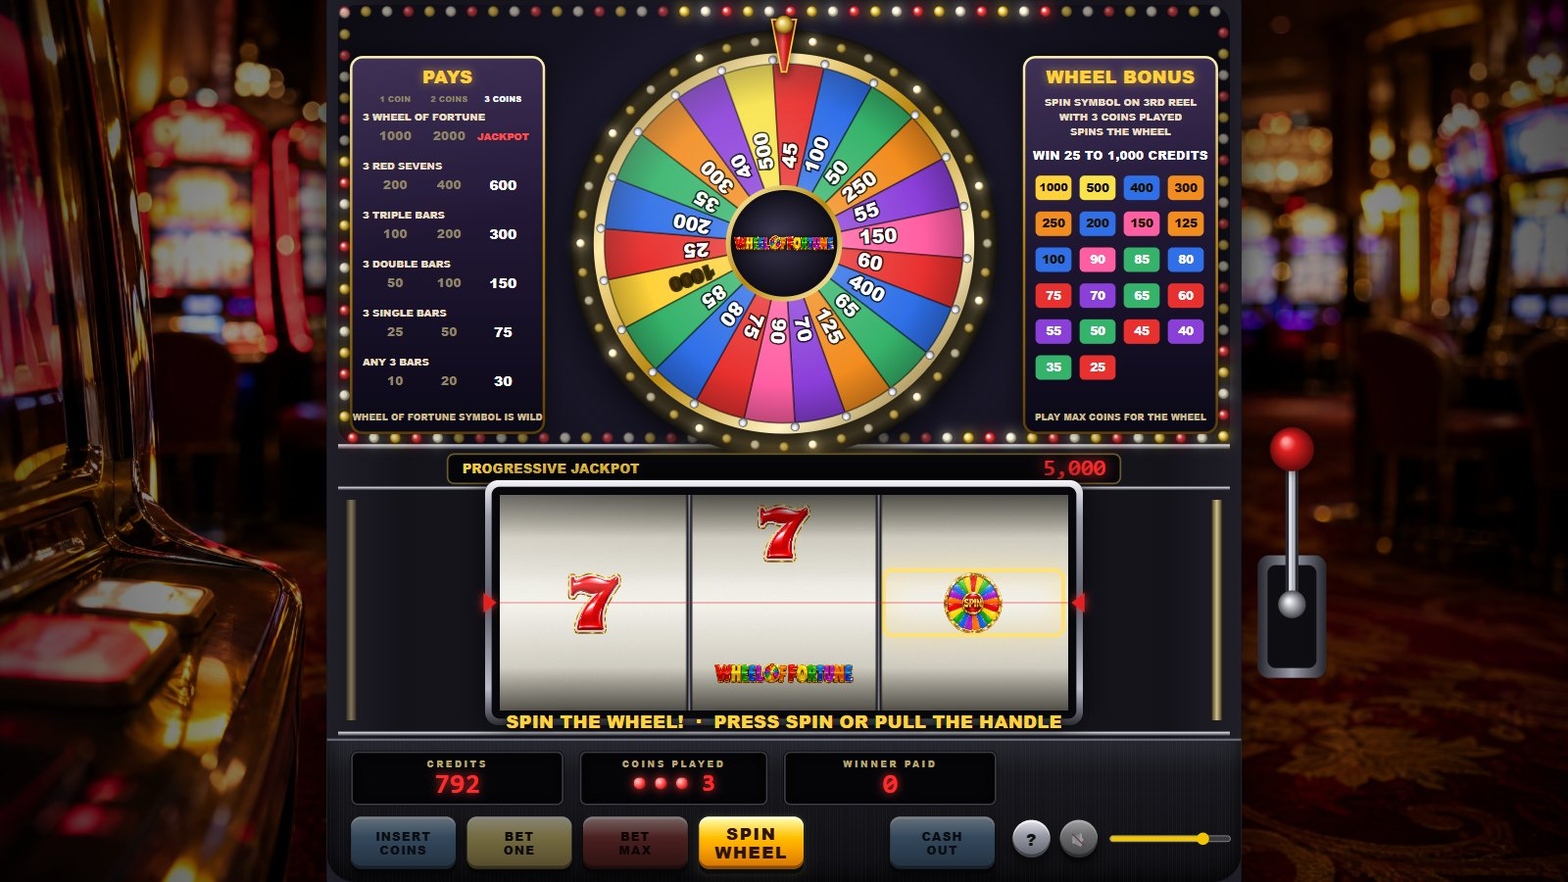
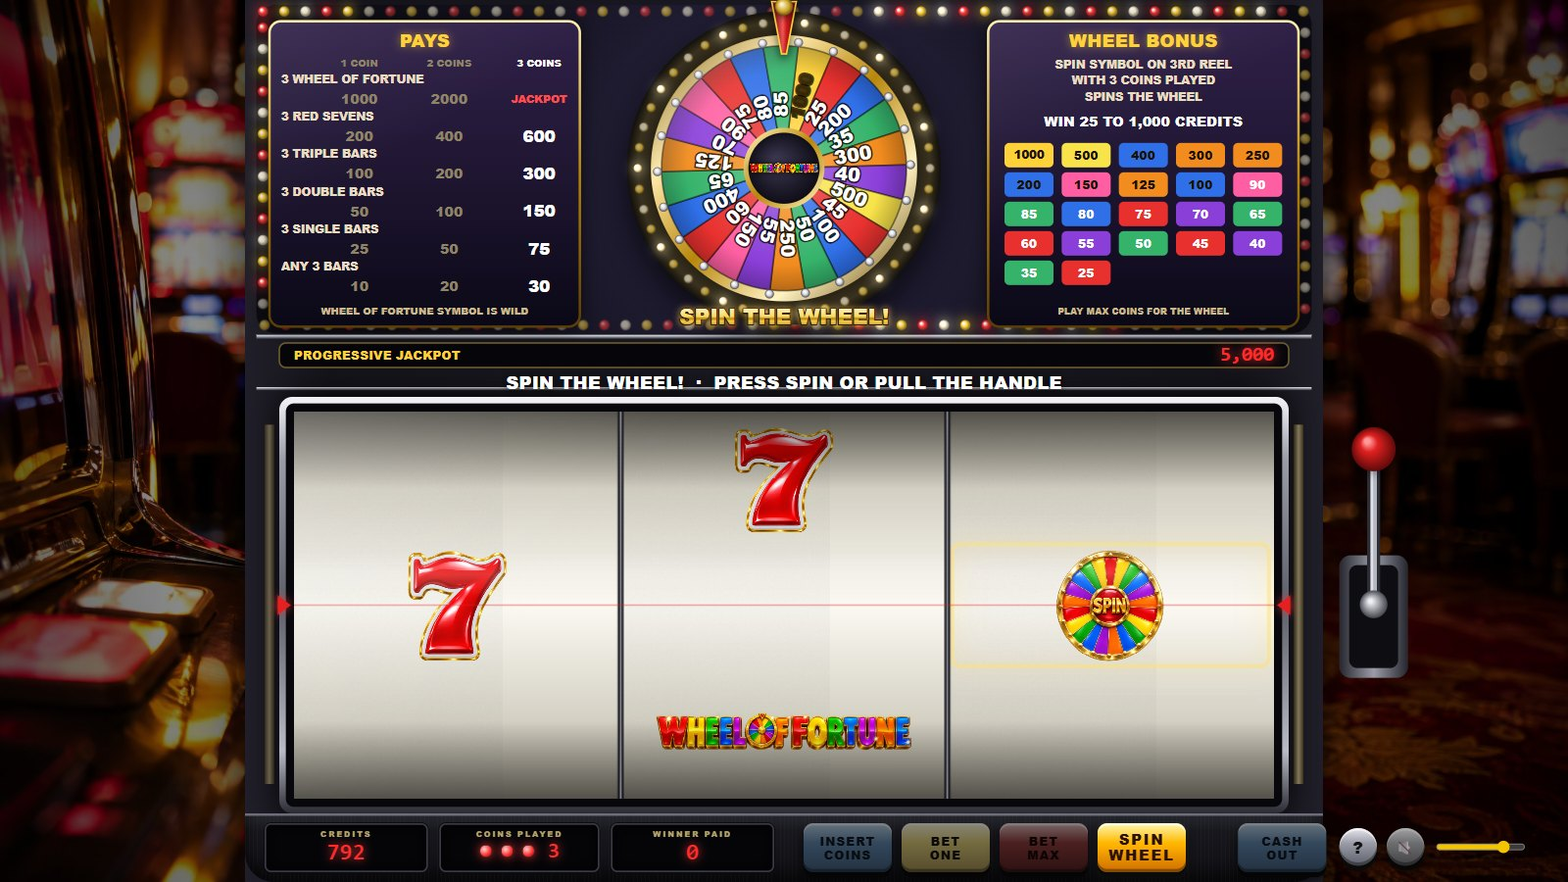
Big reels and an arcade maths profile
Reels grow to 400x158 cells, about three times the glass area, under a compact top box that holds the wheel and both panels; the deck is one row. The new default arcade profile spins the wheel about 1 in 58 (was 1 in 115) on a flatter wheel for a 97.9% three-coin return; ?classic=1 in the browser or WOF_PROFILE=classic for the tools restores the 92.5% original. tools/tune-arcade.js documents the scan; README and screenshots updated.

diff --git a/js/renderer.js b/js/renderer.js
@@ -8,9 +8,11 @@
   'use strict';
   const WOF = root.WOF, ZEUS = root.ZEUS, A = WOF.assets, FX = ZEUS.fx, C = WOF.CONFIG;
   const W = 1920, H = 1080, TAU = Math.PI * 2;
-  const CAB = { x: 400, w: 1120 };
-  const WHEEL = { cx: 960, cy: 298, r: 220 };
-  const REEL = { x: 612, y: 606, cellW: 232, cellH: 88, cols: 3, rows: 3 };
+  /* Big stepper reels (400 x 158 cells in a 1200 x 474 window, about three times the glass
+     area of the first layout) under a compact top box that holds the wheel and both panels. */
+  const CAB = { x: 300, w: 1320 };
+  const WHEEL = { cx: 960, cy: 206, r: 150 };
+  const REEL = { x: 360, y: 504, cellW: 400, cellH: 158, cols: 3, rows: 3 };
   REEL.w = REEL.cellW * REEL.cols; REEL.h = REEL.cellH * REEL.rows; REEL.cy = REEL.y + REEL.h / 2;
   const PAD = 18, R_CELLS = 3.2;
   const FONT = '"Arial Black", Impact, "Segoe UI", Arial, sans-serif';
@@ -85,16 +87,16 @@
     /* top box backdrop behind the wheel */
     g = ctx.createRadialGradient(WHEEL.cx, WHEEL.cy, 60, WHEEL.cx, WHEEL.cy, 620);
     g.addColorStop(0, '#2b2746'); g.addColorStop(0.55, '#14121f'); g.addColorStop(1, '#0c0b12');
-    ctx.fillStyle = g; rr(ctx, x + 14, 6, w - 28, 538, 24); ctx.fill();
+    ctx.fillStyle = g; rr(ctx, x + 14, 6, w - 28, 402, 24); ctx.fill();
     /* chrome trims */
     const trim = (yy, hh) => { const t = ctx.createLinearGradient(0, yy, 0, yy + hh); t.addColorStop(0, '#f4f4f8'); t.addColorStop(0.5, '#8d8f99'); t.addColorStop(1, '#2d2e36'); ctx.fillStyle = t; ctx.fillRect(x + 14, yy, w - 28, hh); };
-    trim(544, 6); trim(596, 4); trim(896, 5);
+    trim(410, 5); trim(474, 4);
     /* chase lights around the top box */
-    this.drawChaseLights(ctx, x + 22, 14, w - 44, 522, now);
+    this.drawChaseLights(ctx, x + 22, 14, w - 44, 384, now);
     /* side light strips of the reel section */
     [x + 24, x + w - 36].forEach(sx => {
       const sg = ctx.createLinearGradient(sx, 0, sx + 12, 0); sg.addColorStop(0, '#5a4a1a'); sg.addColorStop(0.5, '#ffe9a8'); sg.addColorStop(1, '#5a4a1a');
-      ctx.globalAlpha = 0.5 + 0.3 * Math.sin(now * 2 + sx); ctx.fillStyle = sg; ctx.fillRect(sx, 612, 12, 270); ctx.globalAlpha = 1;
+      ctx.globalAlpha = 0.5 + 0.3 * Math.sin(now * 2 + sx); ctx.fillStyle = sg; ctx.fillRect(sx, 520, 12, 440); ctx.globalAlpha = 1;
     });
   };
   P.drawChaseLights = function (ctx, x, y, w, h, now) {
@@ -129,38 +131,38 @@
   P.drawTopGlass = function (ctx) {
     const g = this.game;
     /* left: paytable */
-    let x = CAB.x + 30, y = 70, w = 236, h = 460;
+    let x = CAB.x + 30, y = 26, w = 380, h = 374;
     this.panel(ctx, x, y, w, h);
     ctx.save(); ctx.textBaseline = 'middle';
     ctx.font = '900 22px ' + FONT; ctx.fillStyle = '#ffd23a'; ctx.textAlign = 'center'; ctx.shadowColor = 'rgba(255,200,60,0.6)'; ctx.shadowBlur = 10; ctx.fillText('PAYS', x + w / 2, y + 26); ctx.shadowBlur = 0;
-    const colX = i => x + 54 + i * 66;
-    [1, 2, 3].forEach((cn, i) => { ctx.fillStyle = cn === g.coins ? '#ffffff' : '#8f8468'; ctx.textAlign = 'center'; ctx.font = '700 10px ' + FONT; ctx.fillText(cn + (cn > 1 ? ' COINS' : ' COIN'), colX(i), y + 52); });
+    const colX = i => x + 110 + i * 110;
+    [1, 2, 3].forEach((cn, i) => { ctx.fillStyle = cn === g.coins ? '#ffffff' : '#8f8468'; ctx.textAlign = 'center'; ctx.font = '700 12px ' + FONT; ctx.fillText(cn + (cn > 1 ? ' COINS' : ' COIN'), colX(i), y + 52); });
     C.pays.forEach((p, row) => {
-      const yy = y + 86 + row * 60;
-      ctx.textAlign = 'left'; ctx.font = '700 12px ' + FONT; ctx.fillStyle = '#e9dcc0'; ctx.fillText(p.label.toUpperCase(), x + 14, yy - 12, 210);
+      const yy = y + 84 + row * 46;
+      ctx.textAlign = 'left'; ctx.font = '700 14px ' + FONT; ctx.fillStyle = '#e9dcc0'; ctx.fillText(p.label.toUpperCase(), x + 14, yy - 12, 350);
       [0, 1, 2].forEach(i => {
         const v = p.pays[i]; const col = (i + 1) === g.coins, jp = v === 'JACKPOT';
-        ctx.textAlign = 'center'; ctx.font = (col ? (jp ? '900 12px ' : '900 17px ') : (jp ? '700 11px ' : '700 15px ')) + FONT;
+        ctx.textAlign = 'center'; ctx.font = (col ? (jp ? '900 13px ' : '900 20px ') : (jp ? '700 12px ' : '700 17px ')) + FONT;
         ctx.fillStyle = jp ? (col ? '#ff4d4d' : '#8a3030') : (col ? '#ffffff' : '#8f8468');
         ctx.fillText(jp ? 'JACKPOT' : String(v), colX(i), yy + 12);
       });
     });
-    ctx.textAlign = 'center'; ctx.font = '700 11px ' + FONT; ctx.fillStyle = '#c9b98d';
+    ctx.textAlign = 'center'; ctx.font = '700 12px ' + FONT; ctx.fillStyle = '#c9b98d';
     ctx.fillText('WHEEL OF FORTUNE SYMBOL IS WILD', x + w / 2, y + h - 18);
     ctx.restore();
     /* right: wheel bonus */
-    x = CAB.x + CAB.w - 30 - 236;
+    x = CAB.x + CAB.w - 30 - 380;
     this.panel(ctx, x, y, w, h);
     ctx.save(); ctx.textBaseline = 'middle'; ctx.textAlign = 'center';
     ctx.font = '900 22px ' + FONT; ctx.fillStyle = '#ffd23a'; ctx.shadowColor = 'rgba(255,200,60,0.6)'; ctx.shadowBlur = 10; ctx.fillText('WHEEL BONUS', x + w / 2, y + 26); ctx.shadowBlur = 0;
-    ctx.font = '700 12px ' + FONT; ctx.fillStyle = '#e9dcc0';
-    ['SPIN SYMBOL ON 3RD REEL', 'WITH 3 COINS PLAYED', 'SPINS THE WHEEL'].forEach((t, i) => ctx.fillText(t, x + w / 2, y + 56 + i * 18));
-    ctx.font = '900 15px ' + FONT; ctx.fillStyle = '#ffffff'; ctx.fillText('WIN 25 TO 1,000 CREDITS', x + w / 2, y + 122);
+    ctx.font = '700 14px ' + FONT; ctx.fillStyle = '#e9dcc0';
+    ['SPIN SYMBOL ON 3RD REEL', 'WITH 3 COINS PLAYED', 'SPINS THE WHEEL'].forEach((t, i) => ctx.fillText(t, x + w / 2, y + 54 + i * 20));
+    ctx.font = '900 17px ' + FONT; ctx.fillStyle = '#ffffff'; ctx.fillText('WIN 25 TO 1,000 CREDITS', x + w / 2, y + 124);
     const vals = C.wheel.slice().sort((a, b) => b.value - a.value);
     vals.forEach((wd, i) => {
-      const cx = x + 36 + (i % 4) * 54, cy = y + 160 + Math.floor(i / 4) * 44;
-      ctx.fillStyle = wd.color; rr(ctx, cx - 22, cy - 15, 44, 30, 6); ctx.fill();
-      ctx.fillStyle = wd.value >= 100 ? '#1a1200' : '#ffffff'; ctx.font = '900 ' + (wd.value >= 1000 ? 13 : 14) + 'px ' + FONT; ctx.fillText(String(wd.value), cx, cy + 1);
+      const cx = x + 50 + (i % 5) * 70, cy = y + 164 + Math.floor(i / 5) * 36;
+      ctx.fillStyle = wd.color; rr(ctx, cx - 30, cy - 15, 60, 30, 6); ctx.fill();
+      ctx.fillStyle = wd.value >= 100 ? '#1a1200' : '#ffffff'; ctx.font = '900 ' + (wd.value >= 1000 ? 14 : 15) + 'px ' + FONT; ctx.fillText(String(wd.value), cx, cy + 1);
     });
     ctx.font = '700 11px ' + FONT; ctx.fillStyle = '#c9b98d'; ctx.fillText('PLAY MAX COINS FOR THE WHEEL', x + w / 2, y + h - 18);
     ctx.restore();
@@ -242,17 +244,17 @@
     ctx.restore();
     /* bonus banners */
     const gm = this.game;
-    if (gm.state === 'bonusReady') this.goldText(ctx, 'SPIN THE WHEEL!', cx, cy + R + 60, 34, { glow: 14 + 10 * Math.sin(now * 6) });
-    if (gm.state === 'wheelPaying' || (gm.state === 'idle' && gm.wheel.lightMode === 'win' && gm.bonusValue)) this.goldText(ctx, '+ ' + fmt(gm.bonusValue), cx, cy + R + 60, 36, { glow: 20, fill: '#ffffff' });
+    if (gm.state === 'bonusReady') this.goldText(ctx, 'SPIN THE WHEEL!', cx, cy + R + 34, 26, { glow: 14 + 10 * Math.sin(now * 6) });
+    if (gm.state === 'wheelPaying' || (gm.state === 'idle' && gm.wheel.lightMode === 'win' && gm.bonusValue)) this.goldText(ctx, '+ ' + fmt(gm.bonusValue), cx, cy + R + 34, 28, { glow: 20, fill: '#ffffff' });
   };
 
   /* ------------------------------------------------------- meters/reels */
   P.drawJackpotBand = function (ctx, now) {
-    const x = REEL.x - PAD - 46, w = REEL.w + 2 * PAD + 92, y = 556, h = 36;
+    const x = REEL.x - PAD, w = REEL.w + 2 * PAD, y = 420, h = 30;
     ctx.save(); ctx.fillStyle = '#06060a'; rr(ctx, x, y, w, h, 8); ctx.fill();
     ctx.lineWidth = 2; ctx.strokeStyle = '#6a5a2a'; rr(ctx, x, y, w, h, 8); ctx.stroke();
-    ctx.font = '900 16px ' + FONT; ctx.fillStyle = '#ffd23a'; ctx.textBaseline = 'middle'; ctx.textAlign = 'left'; ctx.fillText('PROGRESSIVE JACKPOT', x + 18, y + h / 2 + 1);
-    ctx.font = '700 28px ' + LED; ctx.textAlign = 'right'; ctx.fillStyle = '#ff2a2a'; ctx.shadowColor = 'rgba(255,60,60,0.9)'; ctx.shadowBlur = 12 + 4 * Math.sin(now * 3);
+    ctx.font = '900 15px ' + FONT; ctx.fillStyle = '#ffd23a'; ctx.textBaseline = 'middle'; ctx.textAlign = 'left'; ctx.fillText('PROGRESSIVE JACKPOT', x + 18, y + h / 2 + 1);
+    ctx.font = '700 24px ' + LED; ctx.textAlign = 'right'; ctx.fillStyle = '#ff2a2a'; ctx.shadowColor = 'rgba(255,60,60,0.9)'; ctx.shadowBlur = 12 + 4 * Math.sin(now * 3);
     ctx.fillText(fmt(Math.floor(this.game.jackpot)), x + w - 18, y + h / 2 + 1); ctx.restore();
   };
   P.drawReelWindow = function (ctx, now) {
@@ -338,7 +340,7 @@
     ctx.save(); ctx.font = '900 22px ' + FONT; ctx.textAlign = 'center'; ctx.textBaseline = 'middle';
     ctx.shadowColor = 'rgba(0,0,0,0.9)'; ctx.shadowBlur = 8;
     ctx.fillStyle = g.state === 'bonusReady' ? (Math.sin(now * 8) > 0 ? '#ffd23a' : '#ffffff') : '#ffe9a8';
-    ctx.fillText(g.message || '', CAB.x + CAB.w / 2, 886); ctx.restore();
+    ctx.fillText(g.message || '', CAB.x + CAB.w / 2, 471); ctx.restore();
   };
   P.drawOverlay = function (ctx, now) {
     const ov = this.game.overlay; if (!ov) return;

diff --git a/css/style.css b/css/style.css
@@ -4,24 +4,24 @@
 html, body { margin: 0; height: 100%; background: #000; overflow: hidden; font-family: var(--font); color: #f3e2b0; user-select: none; -webkit-user-select: none; }
 #stage { position: fixed; left: 50%; top: 50%; width: 1920px; height: 1080px; transform: translate(-50%, -50%); transform-origin: center center; }
 #game { position: absolute; left: 0; top: 0; display: block; }
-#lever-hit { position: absolute; left: 1530px; top: 520px; width: 110px; height: 420px; cursor: pointer; border-radius: 40px; }
+#lever-hit { position: absolute; left: 1630px; top: 540px; width: 110px; height: 420px; cursor: pointer; border-radius: 40px; }
 #lever-hit:hover { background: rgba(255,255,255,0.04); }
 
 /* ---------------------------------------------------------------- deck */
-#deck { position: absolute; left: 400px; top: 904px; width: 1120px; height: 176px; border-radius: 0 0 36px 36px;
+#deck { position: absolute; left: 300px; top: 996px; width: 1320px; height: 84px; border-radius: 0 0 36px 36px;
   background: linear-gradient(180deg, #2a2a33 0%, #17171d 25%, #0e0e12 100%);
   box-shadow: inset 0 3px 0 #6c6d78, inset 0 -8px 20px rgba(0,0,0,.7); }
 #deck::before { content: ''; position: absolute; inset: 0; border-radius: inherit; pointer-events: none;
   background: repeating-linear-gradient(90deg, rgba(255,255,255,.02) 0 1px, transparent 1px 5px); }
-.led { position: absolute; top: 16px; height: 66px; padding: 6px 14px; background: #050508; border: 2px solid #3a3a46; border-radius: 8px;
+.led { position: absolute; top: 12px; height: 60px; padding: 4px 10px; background: #050508; border: 2px solid #3a3a46; border-radius: 8px;
   box-shadow: inset 0 0 18px rgba(0,0,0,.9), 0 0 0 1px #0a0a0a; text-align: center; }
-.led .label { font-size: 11px; letter-spacing: 3px; color: #b8a66e; }
-.led .value { font-family: var(--led); font-size: 34px; font-weight: 700; color: #ff2a2a; line-height: 1.05; text-shadow: 0 0 12px rgba(255,60,60,.85); font-variant-numeric: tabular-nums; }
-#led-credits { left: 30px; width: 260px; }
-#led-coins { left: 310px; width: 230px; }
-#led-paid { left: 560px; width: 260px; }
+.led .label { font-size: 10px; letter-spacing: 2px; color: #b8a66e; }
+.led .value { font-family: var(--led); font-size: 28px; font-weight: 700; color: #ff2a2a; line-height: 1.05; text-shadow: 0 0 12px rgba(255,60,60,.85); font-variant-numeric: tabular-nums; }
+#led-credits { left: 24px; width: 200px; }
+#led-coins { left: 238px; width: 196px; }
+#led-paid { left: 448px; width: 200px; }
 .coins { display: flex; align-items: center; justify-content: center; gap: 10px; }
-.coins .value { font-size: 30px; margin-left: 6px; }
+.coins .value { font-size: 26px; margin-left: 6px; }
 .dot { width: 16px; height: 16px; border-radius: 50%; background: #3a1010; box-shadow: inset 0 0 4px #000; border: 1px solid #5a2a2a; }
 .dot.on { background: radial-gradient(circle at 35% 35%, #ffd0d0, #ff2a2a 60%, #8a0a0a); box-shadow: 0 0 12px rgba(255,50,50,.9); }
 
@@ -30,23 +30,23 @@ html, body { margin: 0; height: 100%; background: #000; overflow: hidden; font-f
 .btn:hover { filter: brightness(1.1); }
 .btn:active { transform: translateY(4px); box-shadow: inset 0 3px 0 rgba(255,255,255,.4), inset 0 -2px 0 rgba(0,0,0,.35), 0 2px 0 #0a0a0a, 0 4px 8px rgba(0,0,0,.6); }
 .btn:disabled { filter: grayscale(.6) brightness(.55); cursor: default; transform: none; }
-#deck .btn { position: absolute; top: 96px; height: 64px; width: 128px; }
+#deck .btn { position: absolute; top: 12px; height: 60px; width: 108px; }
 .btn.blue { background: linear-gradient(180deg, #9fd4ff, #2f8ae6 40%, #1b5fa8); color: #06182e; }
 .btn.yellow { background: linear-gradient(180deg, #fff3b0, #f3c400 40%, #b58900); }
 .btn.red { background: linear-gradient(180deg, #ffb0b0, #e62020 40%, #8f0f0f); color: #2a0000; }
 .btn.green { background: linear-gradient(180deg, #c8ffd0, #28c552 40%, #117a2e); color: #03200c; }
-#btn-insert { left: 30px; }
-#btn-betone { left: 172px; }
-#btn-betmax { left: 314px; }
-#btn-spin { left: 456px; width: 220px; font-size: 20px; letter-spacing: 2px; }
-#btn-cash { left: 690px; }
+#btn-insert { left: 684px; }
+#btn-betone { left: 804px; }
+#btn-betmax { left: 924px; }
+#btn-spin { left: 1044px; width: 160px; font-size: 18px; letter-spacing: 2px; }
+#btn-cash { left: 1216px; width: 90px; }
 .btn.pulse { animation: pulse 1.4s ease-in-out infinite; }
 .btn.bonus { background: linear-gradient(180deg, #fff3b0, #ffb400 40%, #c76a00); color: #2a1200; animation: pulse .6s ease-in-out infinite; }
 @keyframes pulse { 0%, 100% { filter: brightness(1); } 50% { filter: brightness(1.25) drop-shadow(0 0 14px rgba(255,255,200,.8)); } }
-.side { position: absolute; left: 840px; top: 100px; display: flex; align-items: center; gap: 12px; }
+.side { position: absolute; left: 1340px; top: 18px; display: flex; align-items: center; gap: 12px; }
 #deck .side .btn.icon { position: static; width: 46px; height: 46px; border-radius: 50%; font-size: 20px; background: linear-gradient(180deg, #e8e8ee, #9a9ca8 40%, #5c5e6a); color: #111; }
 #btn-sound.muted { filter: grayscale(.7) brightness(.7); }
-#vol { width: 150px; accent-color: #f3c400; cursor: pointer; }
+#vol { width: 110px; accent-color: #f3c400; cursor: pointer; }
 
 /* ------------------------------------------------------------ overlays */
 #help { position: absolute; inset: 0; background: rgba(0,0,0,.78); display: flex; align-items: center; justify-content: center; z-index: 20; }

diff --git a/js/config.js b/js/config.js
@@ -12,6 +12,19 @@
   'use strict';
   const WOF = root.WOF || (root.WOF = {});
 
+  /* Two maths profiles share the reels, pays and wheel values; they differ in how often SPIN lands
+     and how the wheel is weighted:
+       classic  SPIN about 1 in 115 spins, wheel average 54 credits, 92.5% three-coin return
+       arcade   (default) SPIN about 1 in 58 spins, a flatter wheel (average about 38 credits,
+                1,000 about 1 in 510 wheel spins), 97.9% three-coin return
+     Pick classic with ?classic=1 in the browser, or WOF_PROFILE=classic for the node tools. */
+  const PROFILES = {
+    classic: { spinWeight: 1, wheelWeights: null, rtp: '92.5', spinEvery: 115 },
+    arcade: { spinWeight: 2, wheelWeights: [2, 560, 1, 160, 1, 90, 1, 64, 3, 48, 1, 30, 2, 24, 1, 8, 2, 6, 3, 5, 4, 4], rtp: '97.9', spinEvery: 58 }
+  };
+  const wantClassic = (root.location && /[?&]classic=1(&|$)/.test(root.location.search)) || (typeof process !== 'undefined' && process.env && process.env.WOF_PROFILE === 'classic');
+  const PROFILE = wantClassic ? 'classic' : 'arcade', PROF = PROFILES[PROFILE];
+
   const SYMBOLS = [
     { id: 'WOF',   name: 'Wheel of Fortune', file: 'wof',   wild: true },
     { id: 'SEVEN', name: 'Red Seven',        file: 'seven' },
@@ -42,7 +55,7 @@
   ];
   /* virtual-stop weights per symbol; BLANK_NEAR_WOF applies to the two blanks
      beside the WOF logo (the near-miss tease). Tuned with tools/tune.js. */
-  const WEIGHTS = { WOF: 2, SEVEN: 4, BAR3: 3, BAR2: 5, BAR1: 7, SPIN: 1, BLANK: 5, BLANK_NEAR_WOF: 12 };
+  const WEIGHTS = { WOF: 2, SEVEN: 4, BAR3: 3, BAR2: 5, BAR1: 7, SPIN: PROF.spinWeight, BLANK: 5, BLANK_NEAR_WOF: 12 };
 
   function buildStrips(weights) {
     weights = weights || WEIGHTS;
@@ -54,8 +67,8 @@
     }));
   }
 
-  /* bonus wheel: 22 wedges clockwise from the pointer; weights tuned so the
-     average award is ~54 credits and 1000 hits about 1 in 250 spins */
+  /* bonus wheel: 22 wedges clockwise from the pointer. These are the classic weights (average
+     award ~54 credits, 1000 about 1 in 250 wheel spins); the arcade profile replaces them below. */
   const WHEEL = [
     { value: 1000, weight: 1, color: '#ffd23a' }, { value: 25, weight: 70, color: '#e8312f' }, { value: 200, weight: 1, color: '#2f6fe8' },
     { value: 35, weight: 45, color: '#36b36b' }, { value: 300, weight: 1, color: '#f28c1f' }, { value: 40, weight: 30, color: '#8b3fd9' },
@@ -66,6 +79,7 @@
     { value: 90, weight: 3, color: '#ff5fa2' }, { value: 75, weight: 5, color: '#e8312f' }, { value: 80, weight: 4, color: '#2f6fe8' },
     { value: 85, weight: 4, color: '#36b36b' }
   ];
+  if (PROF.wheelWeights) WHEEL.forEach((w, i) => { w.weight = PROF.wheelWeights[i]; });
 
   /* ---------- evaluation ---------- */
   function isBar(id) { return !!(BY_ID[id] && BY_ID[id].bar); }
@@ -108,7 +122,7 @@
       'Only the highest winning combination is paid. Malfunction voids all pays and plays.'
     ]
   };
-  WOF.RTP = '92.5';
+  WOF.RTP = PROF.rtp; WOF.PROFILE = PROFILE; WOF.PROFILES = PROFILES;
   WOF.buildStrips = buildStrips;
   WOF.evalLine = evalLine;
   WOF.payFor = payFor;

diff --git a/tools/tune-arcade.js b/tools/tune-arcade.js
@@ -1,0 +1,24 @@
+/* Scan "arcade" settings for the wheel bonus: a heavier SPIN stop and a flatter wheel,
+   ranked by distance to a target 3-coin RTP.  usage: node tools/tune-arcade.js [targetRtp=0.96] */
+'use strict';
+const WOF = require('../js/config.js');
+const { analyze } = require('./rtp-lib.js');
+const C = WOF.CONFIG;
+const TARGET = parseFloat(process.argv[2] || '0.96');
+function wheelVariant(smallMult, topMult) {
+  return C.wheel.map(w => Object.assign({}, w, { weight: w.value <= 60 ? Math.round(w.weight * smallMult) : w.value >= 1000 ? Math.max(1, Math.round(w.weight * topMult)) : w.weight }));
+}
+const rows = [];
+for (const SPIN of [1, 2, 3]) for (const sm of [1, 1.5, 2, 2.5, 3, 4]) for (const tm of [1, 2]) {
+  const strips = WOF.buildStrips(Object.assign({}, C.weights, { SPIN: SPIN }));
+  const wheel = wheelVariant(sm, tm);
+  const r = analyze(strips, wheel);
+  rows.push({ name: 'SPIN weight ' + SPIN + '  small wedges x' + sm + '  1000 wedge x' + tm, r, wheel });
+}
+const near = rows.filter(x => 1 / x.r.pSpin >= 30 && 1 / x.r.pSpin <= 70);
+near.sort((a, b) => Math.abs(a.r.rtp[2].total - TARGET) - Math.abs(b.r.rtp[2].total - TARGET));
+near.slice(0, 24).forEach(({ name, r, wheel }) => {
+  const tot = wheel.reduce((a, w) => a + w.weight, 0);
+  console.log(name.padEnd(46), 'spin 1/' + (1 / r.pSpin).toFixed(0), 'wheel EV', r.wheelEV.toFixed(1), 'P(1000) 1/' + Math.round(tot / wheel[0].weight), 'base', (r.rtp[2].base * 100).toFixed(1), 'wheel', (r.rtp[2].bonus * 100).toFixed(1), 'RTP', (r.rtp[2].total * 100).toFixed(2));
+});
+console.log(near.length + ' candidates between 1/30 and 1/70 of ' + rows.length);

diff --git a/js/game.js b/js/game.js
@@ -174,7 +174,7 @@
       if (this.coins === C.maxCoins) {
         this.state = 'bonusReady'; A().chant(); this.wheel.lightMode = 'chase';
         this.winCells = [2]; this.setMessage('SPIN THE WHEEL!  ·  PRESS SPIN OR PULL THE HANDLE');
-        FX.sparkle(960, 300, 30, { color: '#ffffff', speed: 400 });
+        FX.sparkle(WOF.LAYOUT.WHEEL.cx, WOF.LAYOUT.WHEEL.cy, 30, { color: "#ffffff", speed: 400 });
         return;
       }
       this.setMessage('PLAY 3 COINS TO SPIN THE WHEEL');
@@ -204,7 +204,7 @@
     this.state = 'wheelPaying'; this.paid = value; this.paidDisplay = 0;
     this.rollup = { t0: this.now + 0.6, dur: clamp(value * 0.03, 0.8, 6), to: value, creditsBase: this.credits };
     this.setMessage('THE WHEEL AWARDS ' + value + ' CREDITS');
-    FX.sparkle(960, 300 - 225, 24, { color: '#ffe27a', speed: 300 });
+    FX.sparkle(WOF.LAYOUT.WHEEL.cx, WOF.LAYOUT.WHEEL.cy - WOF.LAYOUT.WHEEL.r - 10, 24, { color: "#ffe27a", speed: 300 });
     if (value >= 300) FX.coins(Math.min(60, value / 10));
   };
   P.endOverlay = function () { const ov = this.overlay; if (!ov || ov.ending) return; ov.ending = true; ov.endAt = this.now; if (this.rollup) this.finishRollup(); };

diff --git a/js/main.js b/js/main.js
@@ -33,7 +33,7 @@
     ['chant1', 'chant2', 'chant3'].forEach(n => WOF.audio.preloadClip(n, 'assets/audio/' + n + '.mp3'));
 
     WOF.assets.load(p => ui.setProgress(p)).then(() => {
-      WOF.assets.prepareSymbols(464, 176);
+      WOF.assets.prepareSymbols(800, 316);
       ui.buildHelp(); ui.assetsLoaded();
     });
 

diff --git a/README.md b/README.md
@@ -7,7 +7,7 @@
 ![HTML5 Canvas](https://img.shields.io/badge/HTML5-Canvas-e34f26)
 ![Web Audio](https://img.shields.io/badge/Web%20Audio-synthesized-7b61ff)
 ![Dependencies](https://img.shields.io/badge/dependencies-none-success)
-![RTP](https://img.shields.io/badge/return%20(3%20coins)-92.5%25-d4af37)
+![RTP](https://img.shields.io/badge/return%20(3%20coins)-97.9%25-d4af37)
 ![Play money](https://img.shields.io/badge/play%20money-only-blue)
 
 <img src="docs/screenshots/hero.jpg" alt="The cabinet: bonus wheel, pay glass, three stepper reels and the handle" width="900">
@@ -58,13 +58,17 @@ weighted too, and the bundled tool prints the exact par sheet.
 
 | Figure | Value |
 | --- | --- |
-| Virtual stops per reel | 121 / 121 / 115 |
+| Virtual stops per reel | 121 / 121 / 116 (classic profile 115) |
 | Any pay | 1 in 23 spins |
-| SPIN on the payline (wheel) | 1 in 115 spins |
+| SPIN on the payline (wheel) | 1 in 58 spins (classic 1 in 115) |
+| Wheel average award | 37.6 credits, the 1,000 about 1 in 510 wheel spins (classic 53.6 and 1 in 252) |
 | Three red sevens | 1 in 1,700 |
 | Three logos (jackpot) | 1 in 210,000 |
-| Return, 1 or 2 coins | 76.7 % |
-| Return, 3 coins | 77.0 % base + 15.5 % wheel = **92.5 %** |
+| Return, 1 or 2 coins | 76.3 % (classic 76.7 %) |
+| Return, 3 coins | 76.3 % base + 21.6 % wheel = **97.9 %** (classic 77.0 % + 15.5 % = 92.5 %) |
+
+The default *arcade* profile spins the wheel about twice as often on a flatter wheel; `?classic=1`
+in the address bar (or `WOF_PROFILE=classic` for the tools) restores the original balance.
 
 **Physics and presentation**
 
@@ -128,7 +132,8 @@ for the optional tools.
 | `jackpotBase`, `jackpotRate` | `js/config.js` | `5000`, `0.03` | Progressive reset value and growth per credit bet |
 | `PAYS[].pays` | `js/config.js` | classic table | Total award for 1 / 2 / 3 coins per combination |
 | `LAYOUT` | `js/config.js` | 22 stops per reel | Physical symbol order on each reel |
-| `WEIGHTS` | `js/config.js` | tuned to 92.5 % | Virtual stops per symbol; `BLANK_NEAR_WOF` is the near-miss weight |
+| `PROFILES` | `js/config.js` | `arcade`; `?classic=1` switches | SPIN weight and wheel weights: arcade spins the wheel 1 in 58 (average 38 credits), classic 1 in 115 (average 54) |
+| `WEIGHTS` | `js/config.js` | tuned to 97.9 % (classic 92.5 %) | Virtual stops per symbol; `BLANK_NEAR_WOF` is the near-miss weight |
 | `WHEEL[].value`, `.weight`, `.color` | `js/config.js` | 22 wedges | Wheel values, odds and colours |
 | reel physics (`vmax`, `accelTime`, `overshoot`, `omega`, `zeta`) | `js/game.js` | `34`, `0.22`, `0.1`, `30`, `0.55` | Stepper speed, acceleration, bounce |
 | `spinTo` duration / turns | `js/wheel.js` | 6.4–7.6 s, 5–7 turns | Wheel spin feel |
@@ -213,8 +218,9 @@ Press **?** (or `H`) for the pay table, the rules and the wheel values.
 
 * The original machine's par sheet is proprietary; the weights here reproduce
   the published behaviour (a weighted 22-wedge wheel of 25–1,000 triggered by
-  SPIN on reel 3 at max coins, near-miss blanks) with a 92.5 % three-coin return
-  chosen to match classic quarter steppers, not the exact IGT figures.
+  SPIN on reel 3 at max coins, near-miss blanks). The classic profile's 92.5 % three-coin
+  return was chosen to match quarter steppers, not the exact IGT figures; the default arcade
+  profile trades a flatter wheel for twice as many wheel spins at 97.9 %.
 * The logo reel symbol uses the generated title logo because the image model
   refused the square reel-symbol render of the words.
 * Credits are play money and are not saved between visits.
@@ -256,6 +262,7 @@ wheel-of-fortune-slot/
     ├── rtp-sim.js        exact par sheet (pay frequencies, wheel, return per coins)
     ├── rtp-lib.js        shared maths
     ├── tune.js           weight scans used to hit the target return
+    ├── tune-arcade.js    SPIN-weight and wheel-weight scans behind the arcade profile
     ├── screenshots.mjs   headless-Chrome smoke test + screenshots (no dependencies)
     └── pngalpha.py       alpha-channel report for PNG assets
 ```
